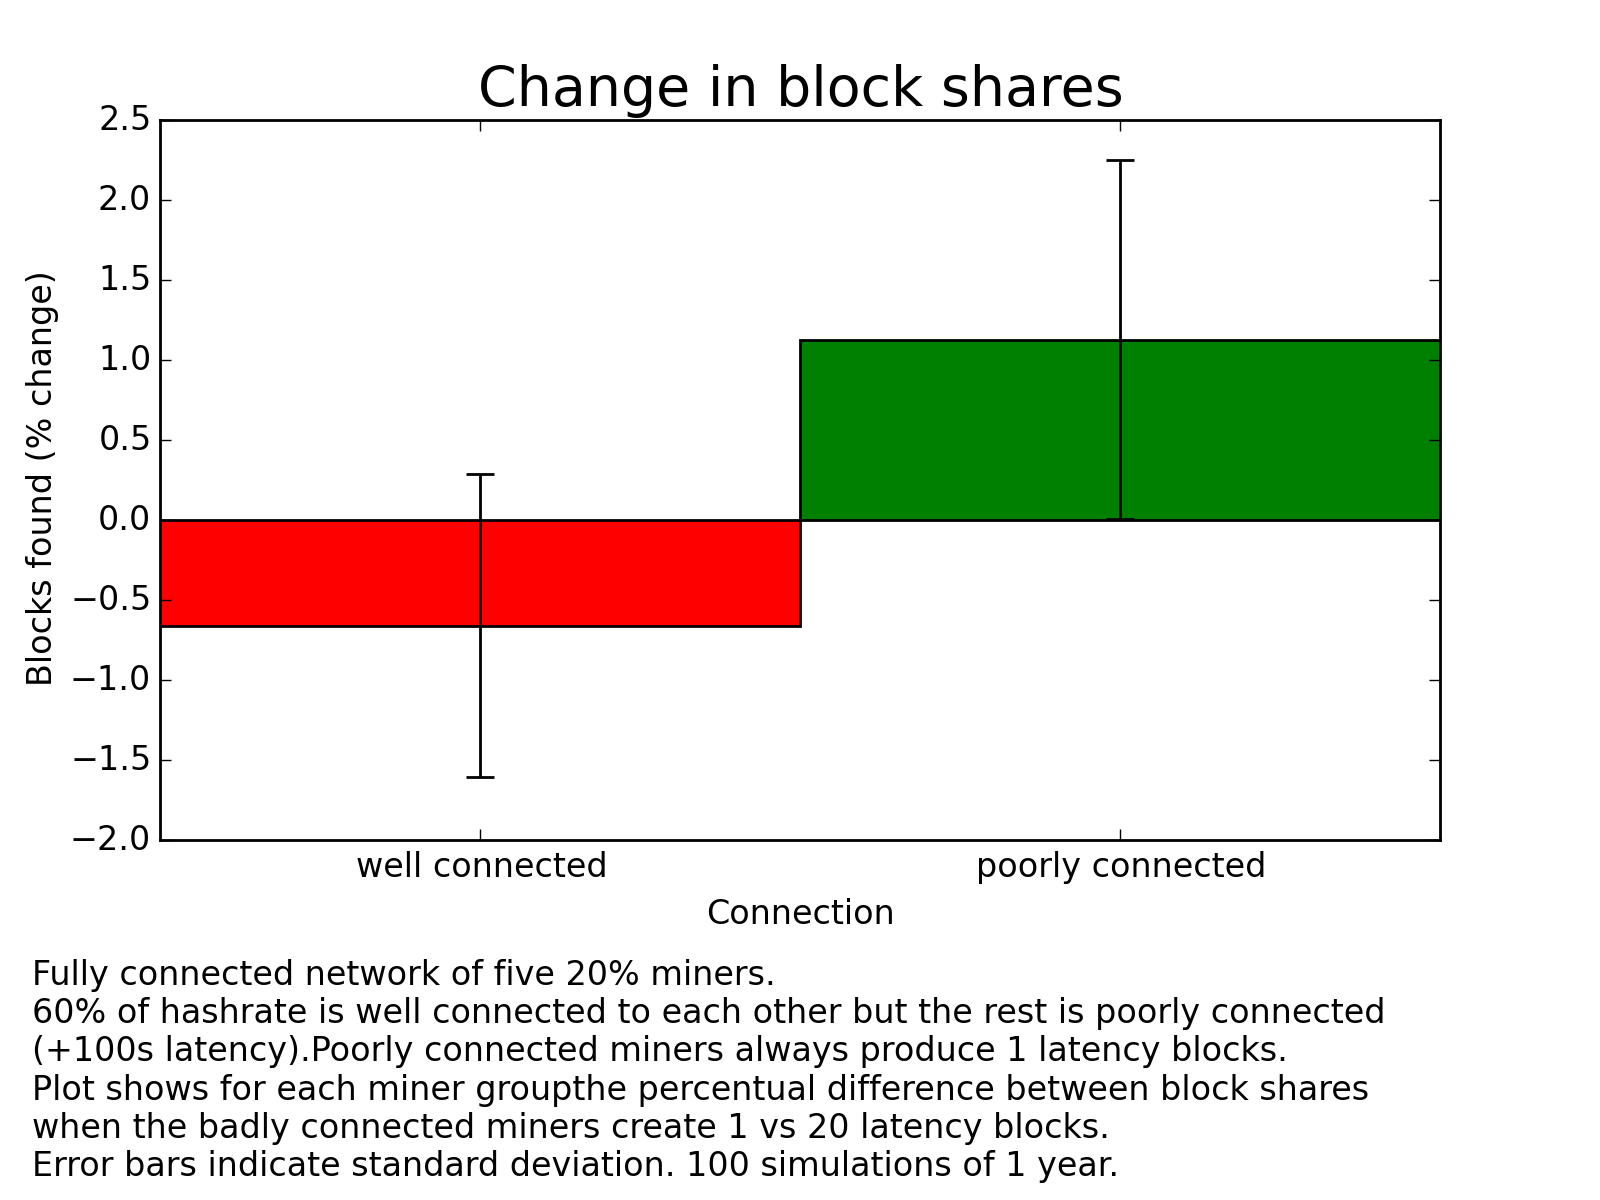
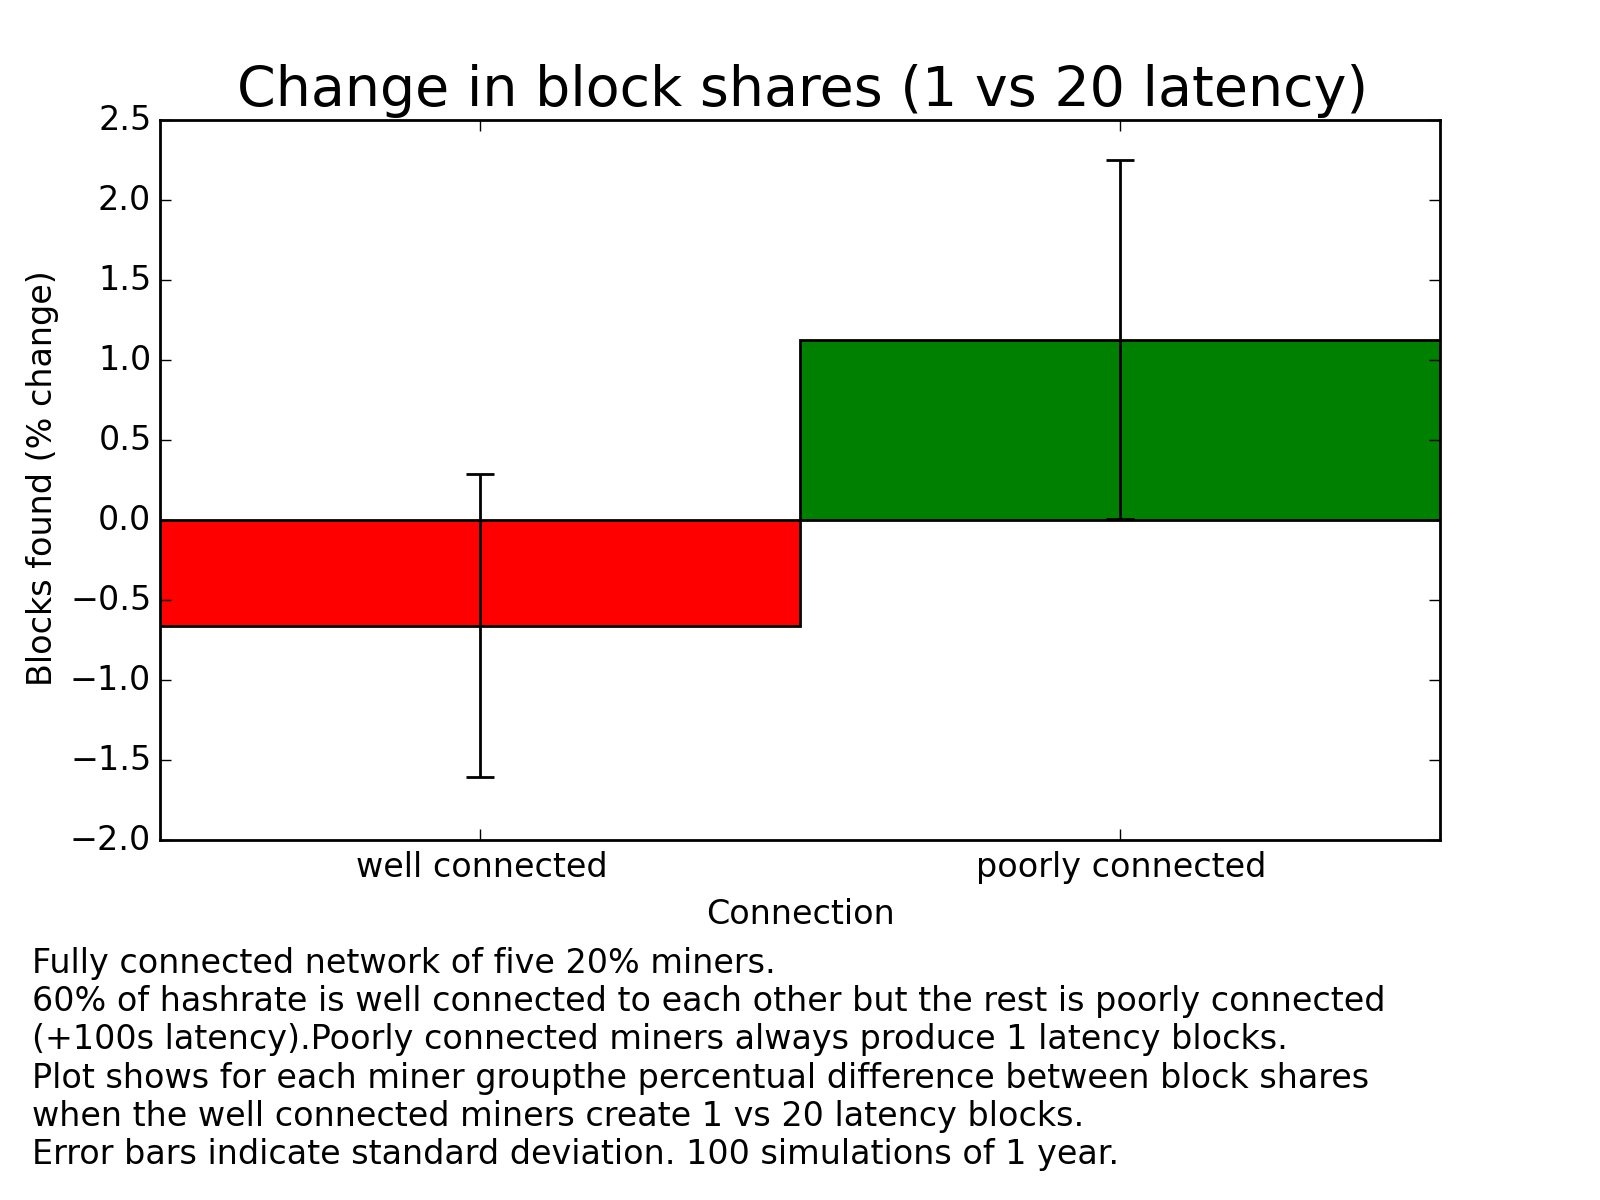
Sipa's scenario and partition scenario.

Changed region(s): [[0.0, 0.7708, 0.875, 0.9867], [0.125, 0.0308, 0.875, 0.0925]]

diff --git a/analysis/README.md b/analysis/README.md
@@ -1,12 +1,21 @@
-Can miners profit from creating bigger blocks?
+Can miners profit by creating bigger blocks?
 ===
-TL;DR 
+
+Summary
+---
+
+* TL;DR as long as there is no network partition, I didn't find a scenario where a miner can profit by creating bigger blocks 
+    * note that the model does not include fees
+
 * Scenarios
     * big vs. small hashrate miners
-        * All miners create big blocks: big miner wins
-        * Only big miner creates big blocks: big miner looses
-    * well vs. badly connected miners
+        * all miners create big blocks: big miner wins
+        * only big miner creates big blocks: big miner looses
+    * well vs. poorly connected miners
         * miners of big blocks loose
+    * there are two groups which are well-connected internally, but are only connected to each other through a poor connection
+        * group with more hashrate profits if they create big blocks
+        * but individual miners in the big group loose and are incentivised to create their own connection to the other group
     * network not fully connected
         * miners of big blocks can profit
 
@@ -14,19 +23,25 @@ All miners create big blocks
 ---
 ![](https://raw.githubusercontent.com/jonasnick/bitcoin_miningsim/master/analysis/plots/histogram.png)
 ![](https://raw.githubusercontent.com/jonasnick/bitcoin_miningsim/master/analysis/plots/varying_latencies.png)
-<!--![](https://raw.githubusercontent.com/jonasnick/bitcoin_miningsim/master/analysis/plots/realistic_hashrates.png)-->
 
 Small miners create small blocks
 ---
 ![](https://raw.githubusercontent.com/jonasnick/bitcoin_miningsim/master/analysis/plots/histogram_small.png)
-<!--![](https://raw.githubusercontent.com/jonasnick/bitcoin_miningsim/master/analysis/plots/histogram_small_40.png)-->
-<!--![](https://raw.githubusercontent.com/jonasnick/bitcoin_miningsim/master/analysis/plots/varying_latencies_small.png)-->
 ![](https://raw.githubusercontent.com/jonasnick/bitcoin_miningsim/master/analysis/plots/realistic_hashrates_small.png)
 
 Well vs. poorly connected miners
 ---
-![](https://raw.githubusercontent.com/jonasnick/bitcoin_miningsim/master/analysis/plots/badly_connected_big_blocks.png)
-![](https://raw.githubusercontent.com/jonasnick/bitcoin_miningsim/master/analysis/plots/badly_connected_small_blocks.png)
+**Poorly connected create big blocks**
+![](https://raw.githubusercontent.com/jonasnick/bitcoin_miningsim/master/analysis/plots/poorly_connected_big_blocks.png)
+**Well connected create big blocks**
+![](https://raw.githubusercontent.com/jonasnick/bitcoin_miningsim/master/analysis/plots/poorly_connected_small_blocks.png)
 
+Two Groups well connected internally but connected to each other with a single poor connection
+---
+![](https://raw.githubusercontent.com/jonasnick/bitcoin_miningsim/master/analysis/plots/sipa.png)
+**Miner 1 opens a new connection to the small group:**
+![](https://raw.githubusercontent.com/jonasnick/bitcoin_miningsim/master/analysis/plots/sipa_traitor.png)
 
-[more plots](https://github.com/jonasnick/bitcoin_miningsim/master/analysis/more_graphs.md)
+One big miner and two partitioned groups
+---
+![](https://raw.githubusercontent.com/jonasnick/bitcoin_miningsim/master/analysis/plots/partition.png)
